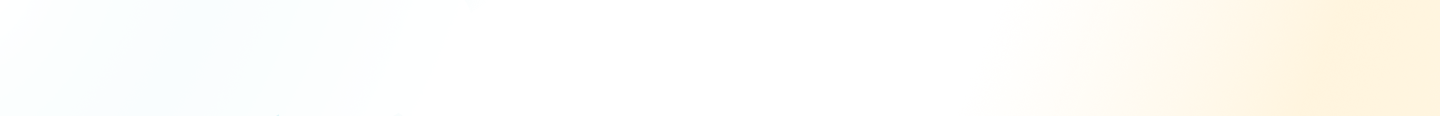
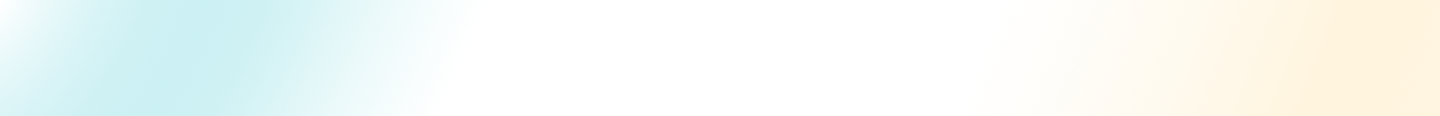
feat: add hero section and images

Changed region(s): [[0.0, 0.0, 0.25, 1.0]]

diff --git a/frontend/src/pages/Home.jsx b/frontend/src/pages/Home.jsx
@@ -1,7 +1,78 @@
 import React from "react";
+import heroImg01 from '../assets/images/heroImg01.png'
+import heroImg02 from '../assets/images/heroImg02.png'
+import heroImg03 from '../assets/images/heroImg03.png'
+
 
 const Home = () => {
-    return <div>Home</div>;
+    return (
+        <>
+            <>
+                <section className="hero__section pt-[60px] 2xl:h-[800px]">
+                    <div className="container">
+                        <div className="flex flex-col lg:flex-row gap-[90px] items-center justify-between">
+                            <div>
+                                <div className="lg:w-[570px]">
+                                    <h1 className="text-[32px] leading-[40px] text-headingColor font-[800] md:text-[60px]
+                                    md:leading-[70px]">
+                                        Kami peduli dengan anda dan keluarga anda.
+                                    </h1>
+                                    <p className="text__para">Lorem ipsum, dolor sit amet consectetur adipisicing elit. Minus, dolorem. Molestias distinctio consequuntur ducimus
+                                        provident?
+                                    </p>
+
+                                    <button className="btn">
+                                        Request an appointment
+                                    </button>
+                                </div>
+
+                                <div className="mt-[30px] lg:mt-[70px] flex flex-col lg:flex-row lg:items-center gap-5
+                                lg:gap-[30px]">
+                                
+                                    <div>
+                                        <h2 className="text-[36px] leading-[56px] lg:text-[44px] lg:leading-[54px] font-[700]
+                                        text-headingColor">
+                                            30+
+                                        </h2>
+                                        <span className="w-[100px] h-2 bg-yellowColor rounded-full bloxk mt-[-14px]"></span>
+                                        <p className="text__para">Years of Experience</p>
+                                    </div>
+
+                                    <div>
+                                        <h2 className="text-[36px] leading-[56px] lg:text-[44px] lg:leading-[54px] font-[700]
+                                        text-headingColor">
+                                            15+
+                                        </h2>
+                                        <span className="w-[100px] h-2 bg-yellowColor rounded-full bloxk mt-[-14px]"></span>
+                                        <p className="text__para">Clinic Location</p>
+                                    </div>
+
+                                    <div>
+                                        <h2 className="text-[36px] leading-[56px] lg:text-[44px] lg:leading-[54px] font-[700]
+                                        text-headingColor">
+                                            100%
+                                        </h2>
+                                        <span className="w-[100px] h-2 bg-yellowColor rounded-full bloxk mt-[-14px]"></span>
+                                        <p className="text__para">Patient Satisfaction</p>
+                                    </div>
+                                </div>
+                            </div>
+
+                        <div className="flex gap-[10px] justify-end">
+                            <div>
+                                <img className="w-full" src={heroImg01} alt="" />
+                            </div>
+                            <div className="mt-[40px]">
+                                <img src={heroImg02} alt="" className="w-full mb-[10px]" />
+                                <img src={heroImg03} alt="" className="w-full" />
+                            </div>
+                        </div>
+                        </div>
+                    </div>
+                </section>
+            </>
+        </>
+    )
 };
 
 export default Home;

diff --git a/frontend/src/index.css b/frontend/src/index.css
@@ -28,6 +28,10 @@
     .header{
         @apply bg-[url('./assets/images/mask.png')] bg-no-repeat bg-center bg-cover w-full h-[100px] leading-[100px]; 
     }
+
+    .hero__section{
+        @apply bg-[url('./assets/images/hero-bg.png')] bg-no-repeat bg-center bg-cover
+    }
 }
 
 @media only screen and (max-width: 1024px){
